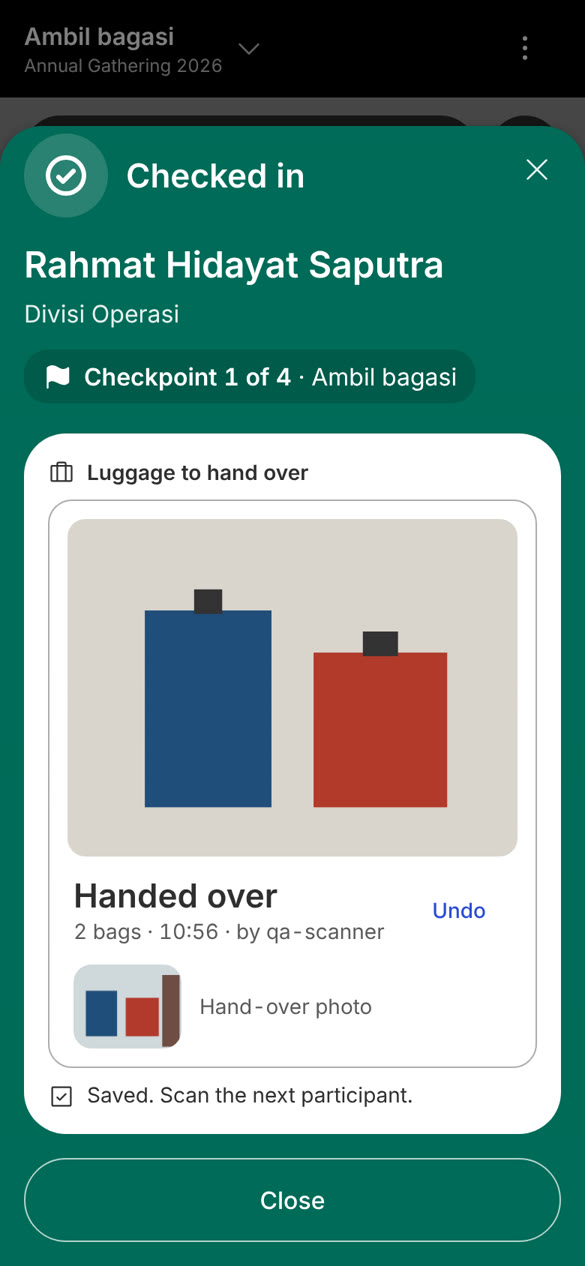
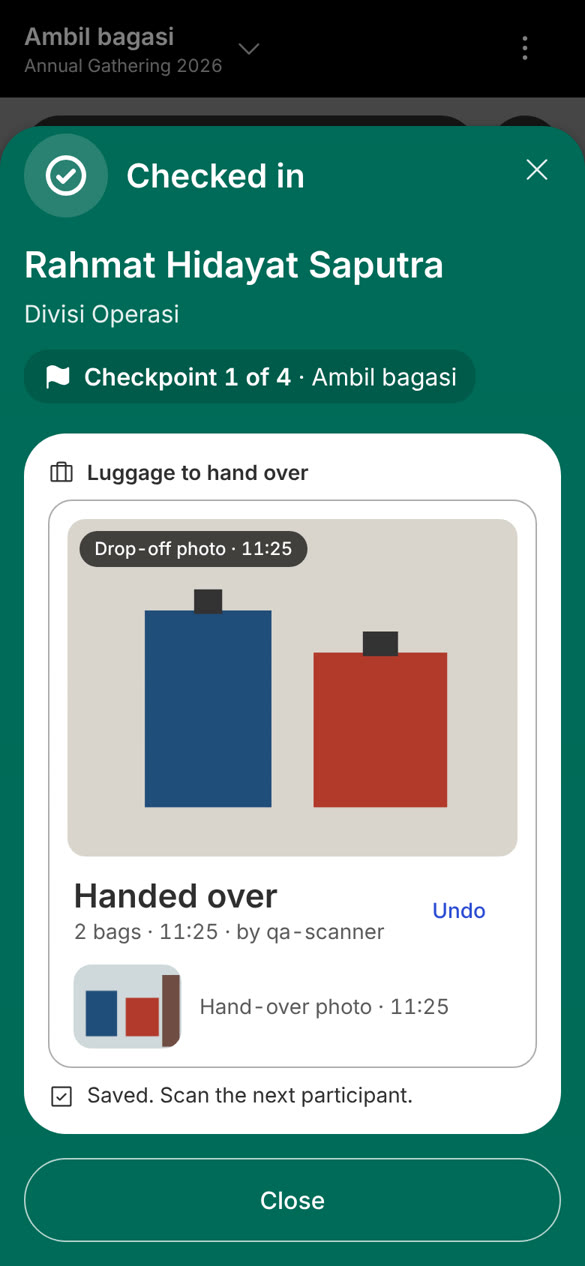
Pick-up desk: label drop-off vs hand-over photo; Skip photo works during a slow upload
Mas: the big photo at the pick-up desk is the drop-off photo, but nothing
said so once a hand-over photo exists. The big photo is now labelled
"Drop-off photo · time" (only with the switch on or a hand-over photo),
the hand-over photo "Hand-over photo · time", and the capture box says
"Take hand-over photo".

QA M1: Skip photo is enabled while the photo uploads (aborts it), and an
upload slower than 15 s turns into Try photo again / Skip photo.

Claude-Session: https://claude.ai/code/session_01P7FxNZGafz1oPPvmVWxsZd

Changed region(s): [[0.1231, 0.4005, 0.5231, 0.4621], [0.6769, 0.7701, 0.7692, 0.8009], [0.3077, 0.7085, 0.3692, 0.7393]]

diff --git a/src/app/scan/luggage-handover.tsx b/src/app/scan/luggage-handover.tsx
@@ -36,6 +36,9 @@ const jam = (iso: string | null | undefined) =>
 const hari = (iso: string) => new Date(iso).toLocaleDateString("en-GB", { weekday: "short", day: "numeric", month: "short" });
 const kantong = (n: number) => `${n} ${n === 1 ? "bag" : "bags"}`;
 
+/** Unggahan foto serah terima yang lebih lama dari ini dianggap gagal: Try photo again atau Skip photo. */
+const BATAS_UNGGAH_MS = 15_000;
+
 type Fase = "muat" | "siap" | "serah" | "batal" | "tenang" | "foto" | "fotoGagal";
 
 export function LuggageHandover({
@@ -66,6 +69,9 @@ export function LuggageHandover({
   const [baru, setBaru] = useState(false);
   const [foto, setFoto] = useState<{ blob: Blob; url: string } | null>(null);
   const pilihFoto = useRef<HTMLInputElement>(null);
+  // Unggahan foto yang sedang berjalan: Skip photo dan batas waktu menghentikannya,
+  // supaya sinyal lemah tidak menahan antrean di meja ambil.
+  const unggahRef = useRef<AbortController | null>(null);
 
   const menunggu = titipan.filter((item) => item.bag_count > 0 && !item.handed_over_at);
   const jumlahMenunggu = menunggu.reduce((total, item) => total + item.bag_count, 0);
@@ -124,7 +130,14 @@ export function LuggageHandover({
     form.set("session_id", String(sessionId));
     form.set("participant_id", participantId);
     form.set("file", blob, "handover.jpg");
-    const response = await fetch(eventApiPath("/api/attendance/luggage/handover/photo"), { method: "POST", body: form }).catch(() => null);
+    const kendali = new AbortController();
+    unggahRef.current = kendali;
+    const batas = window.setTimeout(() => kendali.abort(), BATAS_UNGGAH_MS);
+    const response = await fetch(eventApiPath("/api/attendance/luggage/handover/photo"), { method: "POST", body: form, signal: kendali.signal }).catch(() => null);
+    window.clearTimeout(batas);
+    if (unggahRef.current === kendali) unggahRef.current = null;
+    // Dilewati petugas selama mengunggah: lembar sudah tenang, jangan diubah lagi.
+    if (kendali.signal.aborted && kendali.signal.reason === "lewati") return;
     if (!response?.ok) {
       // Yang perlu diketahui petugas: kopernya sudah tercatat diserahkan, fotonya belum.
       setGalat("The bags are handed over, but the photo did not upload. Try again, or skip the photo.");
@@ -150,6 +163,8 @@ export function LuggageHandover({
   }
 
   function lewatiFoto() {
+    unggahRef.current?.abort("lewati");
+    unggahRef.current = null;
     setFoto(null);
     setGalat("");
     setFase("tenang");
@@ -216,7 +231,7 @@ export function LuggageHandover({
       </Button>
     ) : fase === "foto" || fase === "fotoGagal" ? (
       <>
-        <Button variant="text" size="md" disabled={fase === "foto"} onClick={lewatiFoto}>Skip photo</Button>
+        <Button variant="text" size="md" onClick={lewatiFoto}>Skip photo</Button>
         <Button variant="filled" size="md" loading={fase === "foto"} onClick={() => { if (foto) void kirimFoto(foto.blob); }}>
           Try photo again
         </Button>
@@ -252,9 +267,15 @@ export function LuggageHandover({
             return (
               <div key={item.id} className="flex flex-col gap-3 rounded-lg border border-outline-variant bg-surface-container-lowest p-3">
                 {item.photo_url ? (
-                  <a href={item.photo_url} target="_blank" rel="noreferrer noopener" aria-label="Open luggage photo">
+                  <a href={item.photo_url} target="_blank" rel="noreferrer noopener" aria-label="Open drop-off photo" className="relative block">
                     {/* eslint-disable-next-line @next/next/no-img-element -- signed URL berumur pendek */}
-                    <img src={item.photo_url} alt={`Luggage photo, ${kantong(item.bag_count)}`} className="aspect-[4/3] w-full rounded-md object-cover" />
+                    <img src={item.photo_url} alt={`Drop-off photo, ${kantong(item.bag_count)}`} className="aspect-[4/3] w-full rounded-md object-cover" />
+                    {/* Dua foto di satu kartu (Photo at hand-over): yang besar selalu foto dari meja titip. */}
+                    {fotoAktif || item.handover_photo_url ? (
+                      <span className="absolute left-2 top-2 rounded-full bg-black/70 px-2.5 py-1 text-label-medium font-medium text-white">
+                        Drop-off photo · {jam(item.recorded_at)}
+                      </span>
+                    ) : null}
                   </a>
                 ) : null}
                 <div className="flex items-center gap-3 px-1">
@@ -279,7 +300,7 @@ export function LuggageHandover({
                   <a href={item.handover_photo_url} target="_blank" rel="noreferrer noopener" className="flex items-center gap-3 px-1" aria-label="Open hand-over photo">
                     {/* eslint-disable-next-line @next/next/no-img-element -- signed URL berumur pendek */}
                     <img src={item.handover_photo_url} alt="" className="h-14 w-[72px] shrink-0 rounded-md object-cover" />
-                    <span className="text-body-medium text-on-surface-variant">Hand-over photo</span>
+                    <span className="text-body-medium text-on-surface-variant">Hand-over photo · {jam(item.handed_over_at)}</span>
                   </a>
                 ) : null}
               </div>
@@ -303,13 +324,16 @@ export function LuggageHandover({
           {foto ? (
             <div className="flex min-h-[72px] items-center gap-3 rounded-lg border border-outline bg-surface-container-lowest px-4 py-3">
               {/* eslint-disable-next-line @next/next/no-img-element -- blob: pratinjau, bukan aset statis */}
-              <img src={foto.url} alt="Hand-over photo" className="h-14 w-[72px] shrink-0 rounded-md object-cover" />
+              <img src={foto.url} alt="Hand-over photo" className="h-12 w-16 shrink-0 rounded-md object-cover" />
               <span className="min-w-0 flex-1">
-                <span className="block text-body-large font-medium">{fase === "foto" ? "Uploading photo…" : "Photo added"}</span>
+                <span className="block text-body-large font-medium">Hand-over photo</span>
+                <span className="block text-body-medium text-on-surface-variant">{fase === "foto" ? "Uploading…" : fase === "fotoGagal" ? "Not uploaded" : "Saved with the handover"}</span>
               </span>
               {fase === "siap" || fase === "serah" ? (
                 <>
-                  <Button variant="text" size="md" disabled={fotoTerkunci} onClick={bukaKamera}>Retake</Button>
+                  <IconButton label="Retake photo" disabled={fotoTerkunci} onClick={bukaKamera}>
+                    <Camera size={20} />
+                  </IconButton>
                   <IconButton label="Remove photo" disabled={fotoTerkunci} onClick={() => setFoto(null)}>
                     <X size={20} />
                   </IconButton>
@@ -327,7 +351,7 @@ export function LuggageHandover({
                 <Camera size={24} aria-hidden />
               </span>
               <span className="min-w-0 flex-1">
-                <span className="block text-body-large font-medium text-primary">{fase === "tenang" ? "Add hand-over photo" : "Take photo"}</span>
+                <span className="block text-body-large font-medium text-primary">{fase === "tenang" ? "Add hand-over photo" : "Take hand-over photo"}</span>
                 <span className="block text-body-medium text-on-surface-variant">Optional · the bags being handed over</span>
               </span>
             </button>

diff --git a/public/panduan/scanner.html b/public/panduan/scanner.html
@@ -230,7 +230,7 @@ footer { margin-top: 36px; color: var(--muted); font-size: 13px; }
     <ol class="steps">
       <li>Pastikan judul atas menunjukkan sesi bagasi (ganti lewat judul itu kalau belum), lalu pindai QR peserta seperti biasa.</li>
       <li>Hitung bagasi yang dititipkan (koper, tas, kardus), lalu atur angka <span class="ui">How many bags?</span> dengan tombol <span class="ui">−</span> dan <span class="ui">+</span>. Peserta tidak menitipkan apa pun? Biarkan 0; tombol simpan berubah menjadi <span class="ui">No luggage</span>.</li>
-      <li>Tekan <span class="ui">Take photo</span>. Kamera HP terbuka. Ambil satu foto berisi semua bagasi orang itu, dengan label bagasinya terlihat kalau ada. Foto kurang jelas? Tekan <span class="ui">Retake</span>.</li>
+      <li>Tekan <span class="ui">Take photo</span>. Kamera HP terbuka. Ambil satu foto berisi semua bagasi orang itu, dengan label bagasinya terlihat kalau ada. Foto kurang jelas? Tekan ikon kamera di sebelahnya untuk memotret ulang.</li>
       <li>Tekan tombol putih di bawah, misalnya <span class="ui">Save · 2 bags</span>. Setelah muncul <span class="ui kalimat">Saved. Scan the next participant.</span>, lanjut ke peserta berikutnya.</li>
     </ol>
     <div class="pair">
@@ -267,15 +267,15 @@ footer { margin-top: 36px; color: var(--muted); font-size: 13px; }
       <figure><img src="/panduan/scanner/21-ambil-diserahkan.jpg" alt="Tulisan Handed over dengan jam, nama akun petugas, dan tombol Undo" loading="lazy"><figcaption>Handed over: jam dan nama petugas tercatat</figcaption></figure>
     </div>
     <h3>Foto serah terima (bila admin menyalakannya)</h3>
-    <p>Di sesi ambil yang admin nyalakan <span class="ui">Photo at hand-over</span>, ada kotak <span class="ui">Take photo</span> di bawah titipan. Fotonya boleh, tidak wajib: potret kopernya saat diserahkan, bukan wajah peserta.</p>
+    <p>Di sesi ambil yang admin nyalakan <span class="ui">Photo at hand-over</span>, ada kotak <span class="ui">Take hand-over photo</span> di bawah titipan. Foto besar di atas tetap foto dari meja titip (berlabel <span class="ui">Drop-off photo</span>), untuk mencocokkan koper. Fotonya boleh, tidak wajib: potret kopernya saat diserahkan, bukan wajah peserta.</p>
     <ol class="steps">
-      <li>Tekan <span class="ui">Take photo</span> dan potret semua koper yang diserahkan dalam satu foto. Foto kurang jelas? Tekan <span class="ui">Retake</span>.</li>
+      <li>Tekan <span class="ui">Take hand-over photo</span> dan potret semua koper yang diserahkan dalam satu foto. Foto kurang jelas? Tekan ikon kamera di sebelahnya untuk memotret ulang.</li>
       <li>Tekan <span class="ui">Hand over 2 bags</span> seperti biasa. Penyerahan disimpan dulu, baru fotonya dikirim.</li>
       <li>Foto gagal terkirim (sinyal jelek)? Kopernya tetap tercatat diserahkan. Tekan <span class="ui">Try photo again</span>, atau <span class="ui">Skip photo</span> supaya antrean jalan.</li>
       <li>Lupa memotret sebelum menekan Hand over? Selama lembarnya masih terbuka, tekan <span class="ui">Add hand-over photo</span>.</li>
     </ol>
     <div class="pair">
-      <figure><img src="/panduan/scanner/26-ambil-foto.jpg" alt="Kotak Photo added dengan foto kecil koper, tombol Retake, di atas tombol Hand over 2 bags" loading="lazy"><figcaption>Foto dulu, lalu Hand over</figcaption></figure>
+      <figure><img src="/panduan/scanner/26-ambil-foto.jpg" alt="Foto besar berlabel Drop-off photo, di bawahnya kotak Hand-over photo dengan foto kecil koper, tombol Retake, di atas tombol Hand over 2 bags" loading="lazy"><figcaption>Foto dulu, lalu Hand over</figcaption></figure>
       <figure><img src="/panduan/scanner/27-ambil-foto-tersimpan.jpg" alt="Handed over dengan foto kecil berlabel Hand-over photo" loading="lazy"><figcaption>Foto serah terima tersimpan</figcaption></figure>
     </div>
     <h3>Nomor bagasi</h3>

diff --git a/docs/STATUS.md b/docs/STATUS.md
@@ -15,7 +15,7 @@ Current state only. History is in `git log` and PR descriptions. Last updated: 2
 
 ## In flight
 
-- Photo at hand-over (#389; Mas 4 Nov, KSO: "pickup koper di buat fitur foto juga, bisa dinyalakan dimatikan"): Check-in > session with Luggage: Pick-up > "Photo at hand-over" switch (default off, so every event and session changes 0 px). On the scanner the pick-up sheet gets an optional "Take photo" box; Hand over saves first, the photo follows, and a failed upload says "The bags are handed over, but the photo did not upload" with Try photo again / Skip photo; "Add hand-over photo" lets staff add it after pressing Hand over while the sheet is open. Undo removes the photo. The photo shows on a re-scan, and as "Hand-back photo ↗" in Participant list > Luggage. Same private bucket and 30-day deletion as drop-off photos; staff photograph the bags, not the participant (guide says so). Needs migration `202611040003_foto_ambil_bagasi` (Mas runs it; the switch stays greyed out "Available after the database update…" until then, so code merging first breaks nothing). Scanner guide section 8 updated (26-27 shots, sample data). Visible on KSO only when the switch is turned on: merge after QA GO on Mas's timing OK. Parked Low: Export has no hand-over photo column; the participant's Bagasi card does not show the hand-over photo (staff-only by design for now).
+- Photo at hand-over (#389; Mas 4 Nov, KSO: "pickup koper di buat fitur foto juga, bisa dinyalakan dimatikan"): Check-in > session with Luggage: Pick-up > "Photo at hand-over" switch (default off, so every event and session changes 0 px). On the scanner the pick-up sheet gets an optional "Take hand-over photo" box, and the big photo is labelled "Drop-off photo · time" so staff can tell the two apart (label only when the switch is on or a hand-over photo exists); Hand over saves first, the photo follows, and a failed upload says "The bags are handed over, but the photo did not upload" with Try photo again / Skip photo; "Add hand-over photo" lets staff add it after pressing Hand over while the sheet is open. Undo removes the photo. The photo shows on a re-scan, and as "Hand-back photo ↗" in Participant list > Luggage. Same private bucket and 30-day deletion as drop-off photos; staff photograph the bags, not the participant (guide says so). Needs migration `202611040003_foto_ambil_bagasi` (Mas runs it; the switch stays greyed out "Available after the database update…" until then, so code merging first breaks nothing). Scanner guide section 8 updated (26-27 shots, sample data). Visible on KSO only when the switch is turned on: merge after QA GO on Mas's timing OK. Skip photo also works while the photo is uploading, and an upload slower than 15 s turns into Try photo again / Skip photo, so a weak signal never holds the queue. Parked Lows: Undo from another phone while a photo is still uploading leaves the file in storage until the 30-day clean-up; the post-check's last flag is false on a database with no sessions (fine on production); Export has no hand-over photo column; the participant's Bagasi card does not show the hand-over photo (staff-only by design for now).
 - Luggage not saved prompt (Mas 4 Nov, KSO: participants checked in at Penitipan Luggage showed "No luggage recorded"): check-in is recorded at the scan, the bag count only when staff press save, so a sheet closed first left no luggage record. At a Drop-off session, Close, × or Esc while the count was never saved now opens "Luggage not saved" (not after a failed photo or on Edit of an existing record) (Back to luggage / Close without saving). Scanner guide section 7 updated (new shot 25). No SQL. Fix for records already missing: re-scan or Find name at the drop-off desk and save the count. Same PR (Mas 4 Nov: staff swipe back by accident and land on the event list): the back gesture closes the top layer first; with nothing open the first swipe shows "Swipe back again to leave the scanner", a second within 3 s leaves (guard history entry after the first touch; Chrome skips entries added without a user gesture). Guide section 9 updated. #384 merged 4 Nov (QA GO, Mas OK). Parked Lows: initial focus lands on Close without saving (should be Back to luggage); the dialog opened during an in-flight save stays after the save lands; at 1280 the snackbar overlaps Turn on camera and says "Swipe" on desktop; Find name mode and the sheet's Find name button are not back layers and skip the prompt; real iOS Safari edge swipe and Android device not tested.
 - Announcements "Participants who match": Match All conditions / Any condition (Mas 4 Nov: conditions were AND only). Flat, shown at 2+ conditions, default All so existing announcements are unchanged; list shows "Batch 4 or GRAMM Hotel"; same words as Lucky draw conditions. Hint now says "Same fields as Agenda › Who sees it" (Agenda and Route stay AND for now). Also fixes "Matches 0 ... All of them can see it now". Needs SQL 202611040001 (adds event_announcements.audience_any, default false); code safe before it (choice hidden, saves 409). Participant pages 0 px. QA GO 4 Nov (SQL + code). Waits on Mas running the SQL (before merge) and his timing OK (not while luggage check-in is running). Parked Lows: the draft remembers Any when conditions drop to one, so re-adding a second shows Any again (server stores All in between); before the SQL the portal makes one failed query plus a retry per load; the selected segment has modest contrast on the tinted Send to card (house SegmentedButton).
 - Scanner "Change check-in point or desk" sheet (Mas 3 Nov: with 6 check-in points and 4 desks the Start scanning button sat below the phone screen): Start scanning is pinned to the bottom of the sheet (a thin line shows while choices are hidden under it), the "N checked in" count moves under the name so long names keep two lines, and desks are 48 px choice chips above the check-in points (always visible without scrolling) instead of full rows below them. A choice still applies only on Start scanning. Staff /scan only, no SQL. Scanner guide shots 01-02 retaken. #382 merged 3 Nov before the KSO rehearsal (QA GO, keyboard fix M-1 and pill-shaped selected chip pushed after; delta check runs after merge, Mas OK). Parked Lows: the setup sheet opens with a focus ring on the first desk chip (looks half-picked, also in guide shot 01); the focus ring on a selected chip in the dark phone theme is 1.6:1 (same as the rows before).
